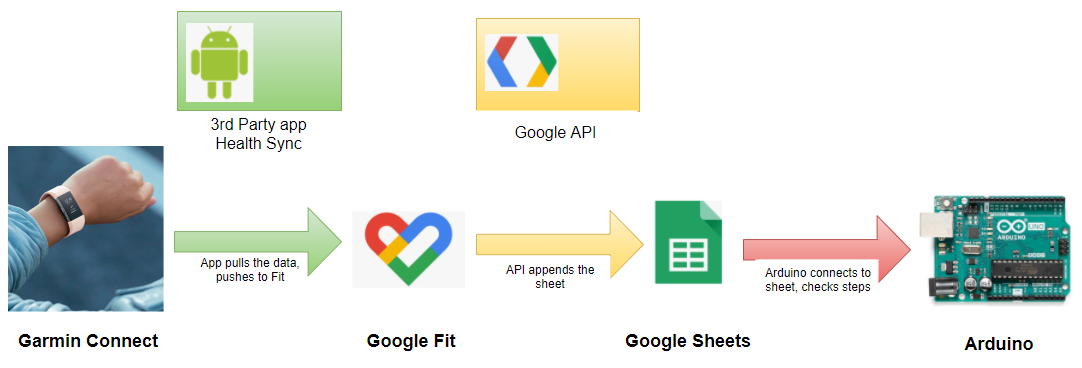
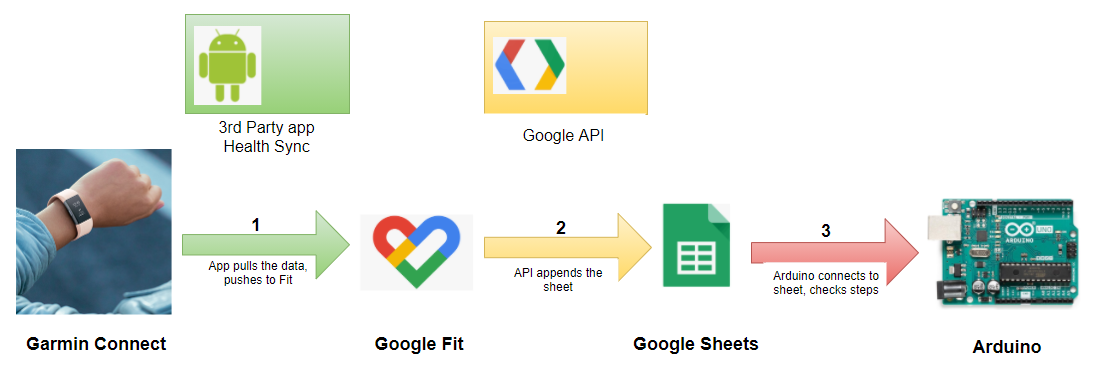
tried to make instructions clearer

diff --git a/Project - Internet-Controlled Dispenser/README.md b/Project - Internet-Controlled Dispenser/README.md
@@ -16,24 +16,21 @@ I want my tracker to trigger a device that can tempt me with treats, without me 
   
 ## How
 You're probably wondering how do you get a signal from a tracker to an arduino. *I'm so glad you asked!*  
-![How](Assets/img.watch_to_arduino.png)  
+![How](Assets/img.the_data_chain.png)  
   
   
 ### 1. Export
 If you have a **Fitbit**: you could export the data.  
 If you have a **Garmin** like me: it's not so easy. Garmin doesn't let you make exports.  
 Garmin users need to use a 3rd party app to export the data. For Android: try Health Sync.  
-![How](Assets/img.health_sync.png)  
+![How](Assets/img.app_health_sync.png)  
   
 ### 2. Import to Google Sheets
 After your data is exported, follow this tutorial to get your data into a Google sheet.  
 https://ithoughthecamewithyou.com/post/export-google-fit-daily-steps-to-a-google-sheet  
-  
 Note:  
-1. You need a free Google account, such as gmail.  
+1. You need to create a free Google account, such as gmail.  
 2. You will need to copy and paste some code. Depending on which metric you want to be the trigger, (eg. steps, weight, distance) you may need to modify the code.  
-  
-![How](Assets/img.the_data_chain.png)  
   
 ### 3. Arduino Import to Google Sheets
 Your Arduino Uno cannot connect to the internet yet. You need to use a breakout board with a Wifi connection, such as the ESP8266.  
